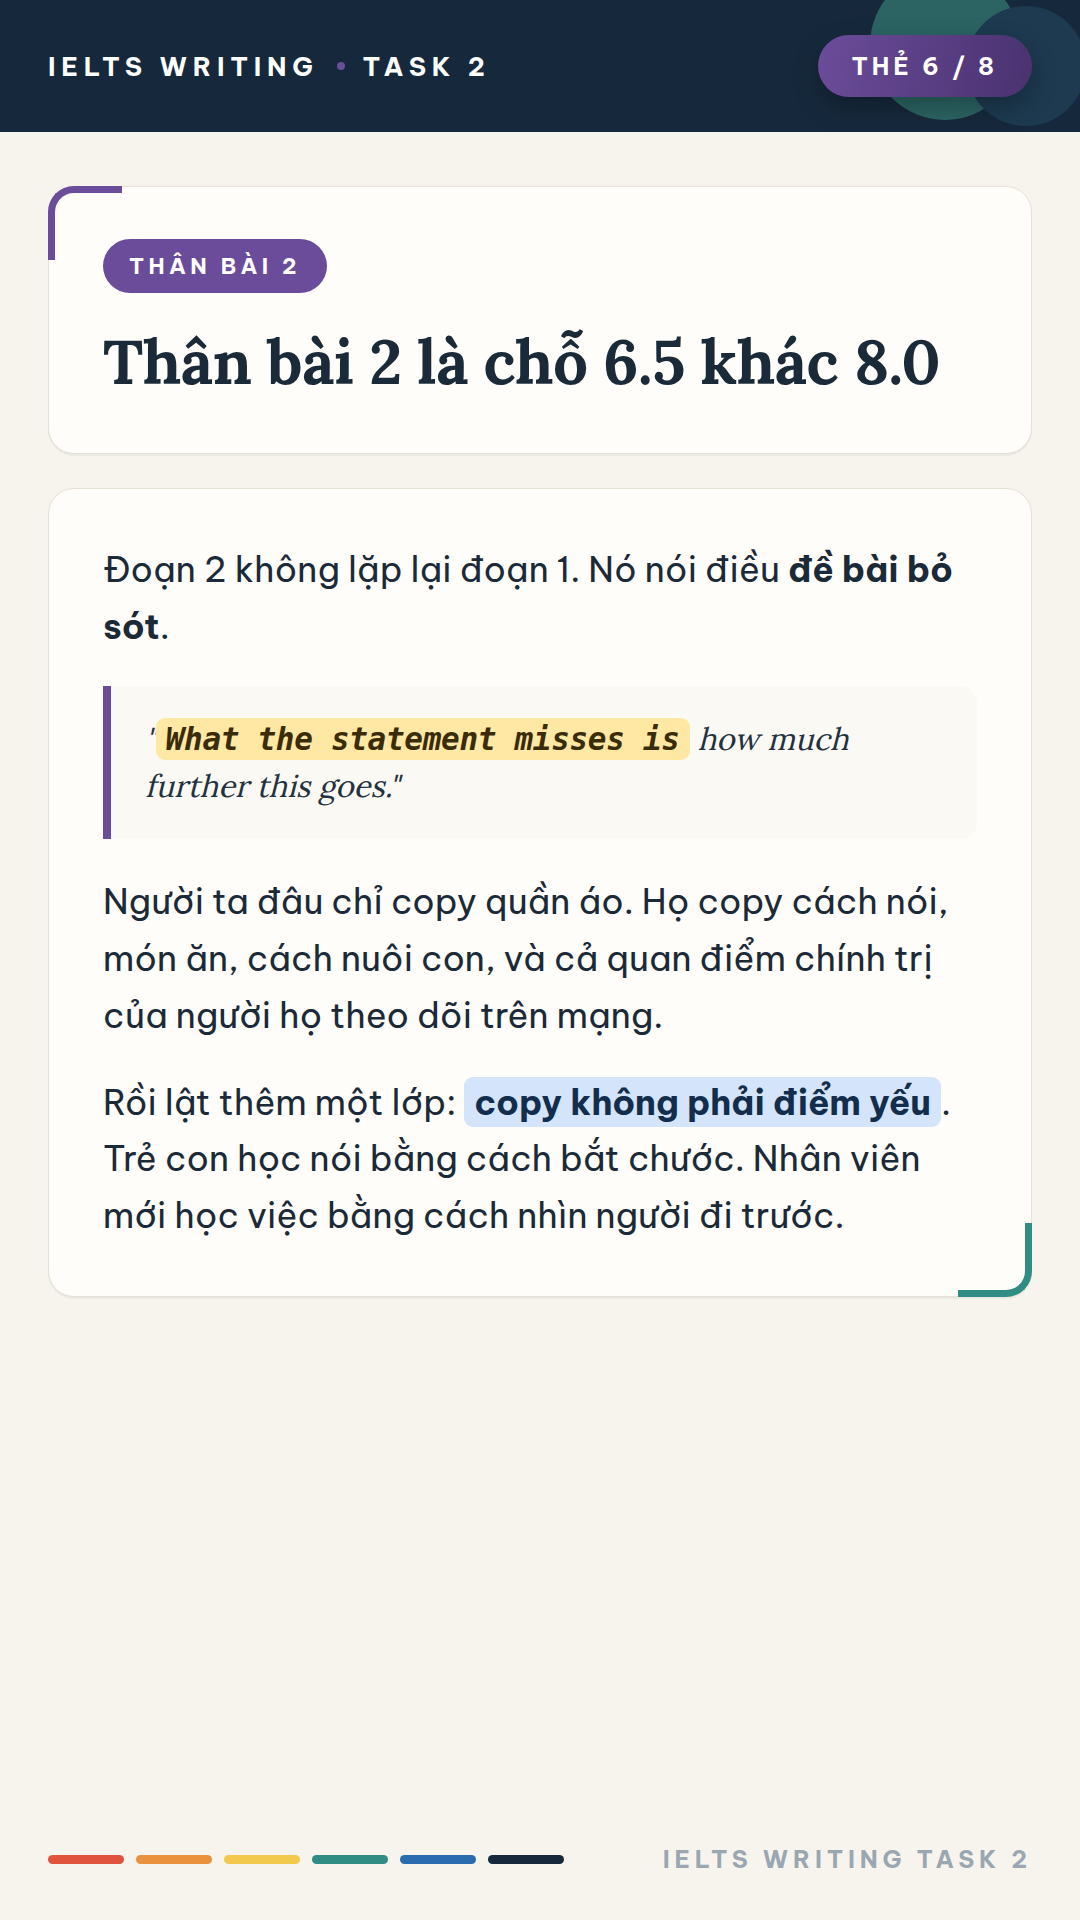
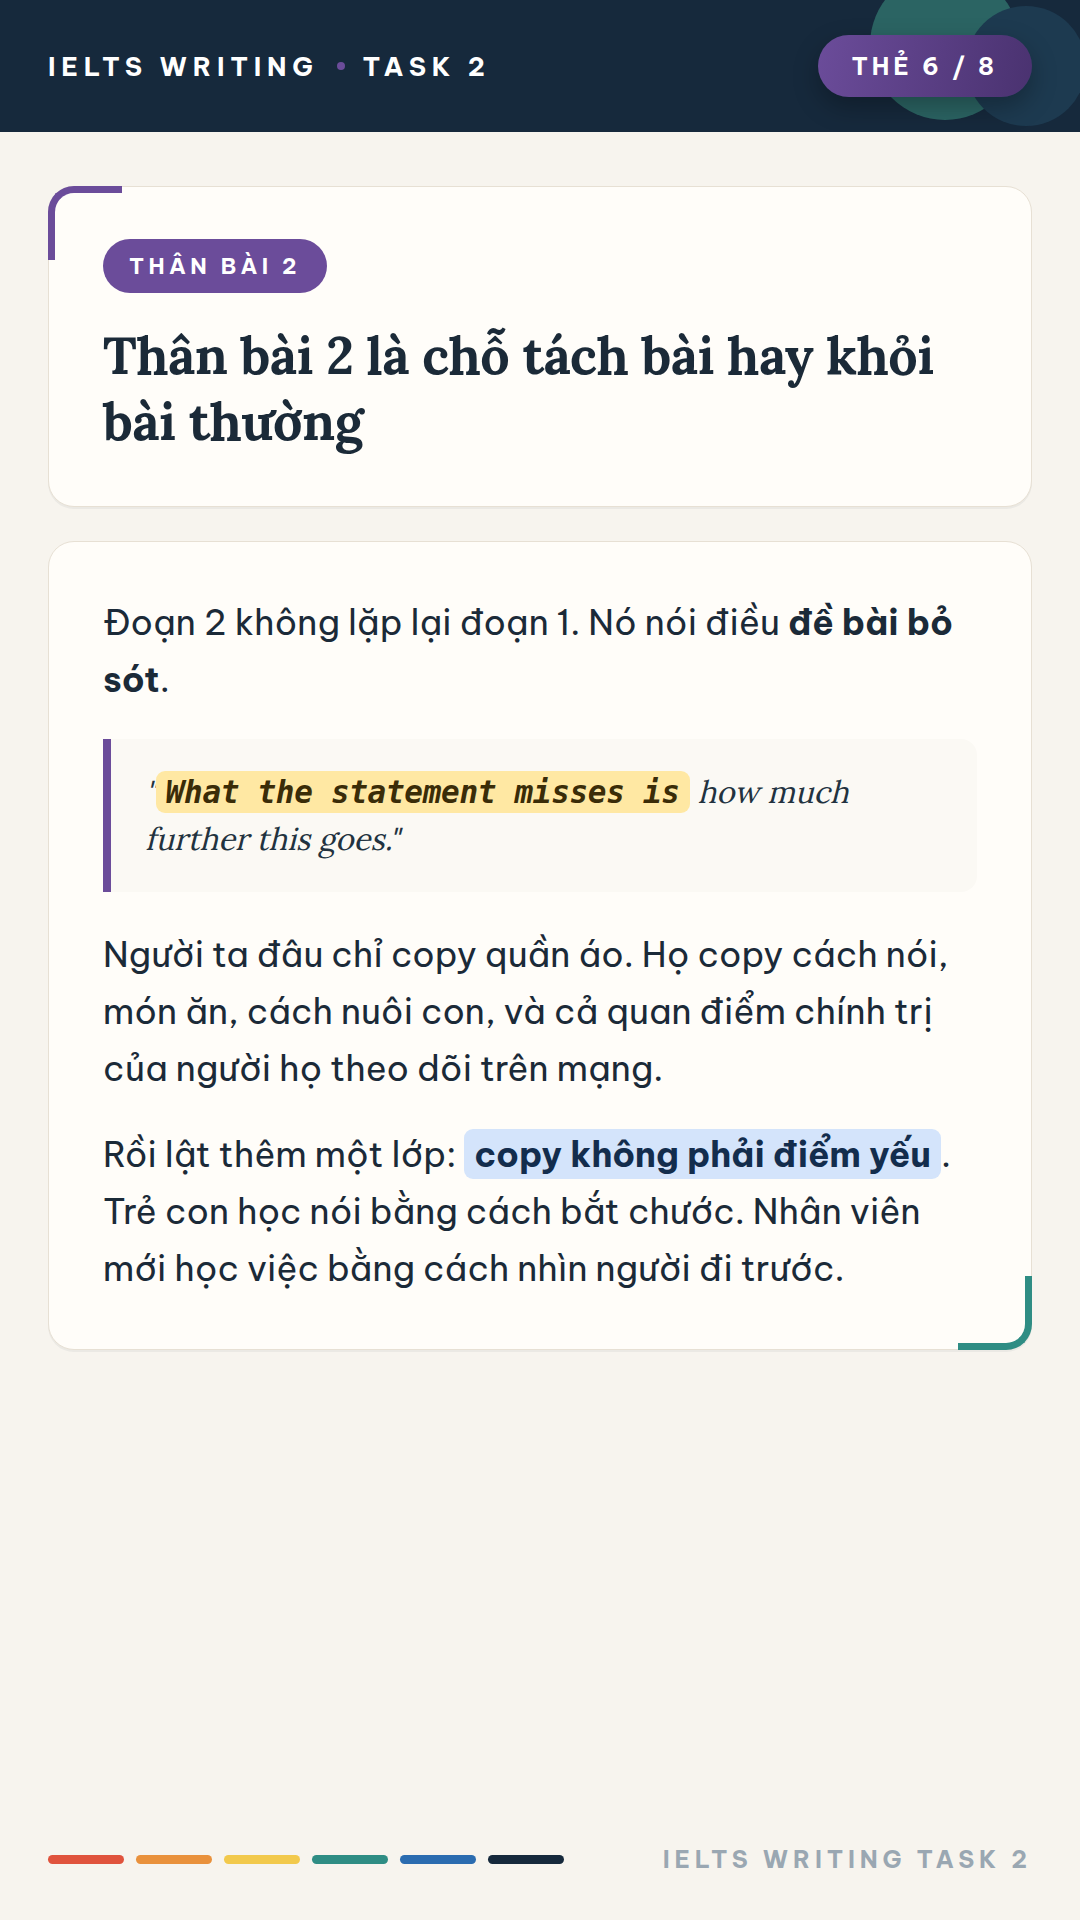
Bỏ mọi nhắc tới điểm số trong thẻ TikTok
Thay "band 8" và các mốc 6.5 / 8.0 bằng cách nói về chất lượng bài viết.
Thẻ phân tích đổi ô điểm thành nhãn tiêu chí TR, CC, LR, GRA và sửa lỗi
tên tiêu chí dính liền phần mô tả.

Claude-Session: https://claude.ai/code/session_019WkSSXiXh5hw7J6iFgTzZU

Changed region(s): [[0.0917, 0.2812, 0.8861, 0.6875], [0.0917, 0.1562, 0.8861, 0.25], [0.8861, 0.625, 0.9778, 0.7188]]

diff --git a/tiktok/task2-full.html b/tiktok/task2-full.html
@@ -15,8 +15,8 @@ const CARDS = [
 /* 1. HOOK */
 {kind:'hook', ac:'#e0533d', ac2:'#b9372a',
  kicker:'IELTS Writing Task 2',
- big:'Một bài <u>band 8</u> không có lấy một từ khó.',
- sub:'Nguyên bài, từ vựng và cách chấm đều nằm trong 7 thẻ này. Lưu lại trước khi lướt tiếp.'},
+ big:'Một bài viết tốt <u>không có lấy một từ khó</u>.',
+ sub:'Nguyên bài, từ vựng và chỗ bài này ăn điểm đều nằm trong 7 thẻ. Lưu lại trước khi lướt tiếp.'},
 
 /* 2. ĐỀ + HƯỚNG TIẾP CẬN */
 {ac:'#e9913c', ac2:'#c26a1f', badge:'Thẻ 1 / 6', chip:'Đề bài',
@@ -32,8 +32,8 @@ const CARDS = [
 
 /* 3. CẢ BÀI WRITING */
 {ac:'#2f8d84', ac2:'#1b5f58', tight:1, badge:'Thẻ 2 / 6', chip:'Bài mẫu',
- title:'Nguyên bài band 8',
- html:`<div class="meta"><span>Band 8.0</span><span>290 từ</span><span class="hot">Agree or disagree</span></div>
+ title:'Nguyên bài mẫu',
+ html:`<div class="meta"><span>Bài mẫu</span><span>290 từ</span><span class="hot">Agree or disagree</span></div>
  <div class="essay">
  <p><span class="pnum">1</span><mark>It is often said that</mark> the way fashions and popular products spread shows how strongly people imitate one another. I agree with this, <mark class="g">although</mark> clothes and gadgets seem to me only the most visible example of something much broader.</p>
  <p><span class="pnum">2</span>The claim is clearly right <mark>as far as it goes</mark>. A particular style of trainer or coat appears on every street within a few months and has disappeared again a year later, and the same happens with phones, coffee shops and kitchen appliances. <mark class="b">The reason is not hard to see.</mark> Wearing what your friends wear is <mark>a way of showing that you belong</mark> with them, while dressing very differently <mark>attracts attention</mark> that most people would rather avoid. <mark class="b">The strongest evidence, though, is commercial.</mark> An entire advertising industry is <mark>built on the assumption that</mark> showing one person enjoying a product will persuade others to buy it, and that industry is extremely profitable, which suggests the assumption is correct.</p>
@@ -78,14 +78,14 @@ const CARDS = [
 
 /* 6. ĐÁNH GIÁ VÀ PHÂN TÍCH */
 {ac:'#4a8c3f', ac2:'#2f6128', badge:'Thẻ 5 / 6', chip:'Chấm bài',
- title:'Bài này được điểm ở đâu',
+ title:'Bài này mạnh ở chỗ nào',
  html:`<div class="crit">
-  <div><span class="band">8.0</span><span><span class="t">Task Response</span><span class="d">Lập trường rõ ngay câu thứ hai và không đổi cho tới kết bài. Có nhượng bộ (đề đúng) rồi mở rộng (đề mới nói một phần), nên bài trả lời đúng chữ "to what extent".</span></span></div>
-  <div><span class="band">8.0</span><span><span class="t">Coherence &amp; Cohesion</span><span class="d">Mỗi đoạn một nhiệm vụ. Ý nối nhau bằng logic, không cần firstly, secondly, last but not least.</span></span></div>
-  <div><span class="band">8.0</span><span><span class="t">Lexical Resource</span><span class="d">Từ quen nhưng đặt chính xác: trainers, coffee shops, neighbours. Collocation tự nhiên như attract attention, shape a life.</span></span></div>
-  <div><span class="band">8.0</span><span><span class="t">Grammar</span><span class="d">Câu dài ngắn xen kẽ. Mệnh đề quan hệ và "while" dùng đúng chỗ, không gồng.</span></span></div>
+  <div><span class="band">TR</span><span><span class="t">Task Response</span><span class="d">Lập trường rõ ngay câu thứ hai và không đổi cho tới kết bài. Có nhượng bộ (đề đúng) rồi mở rộng (đề mới nói một phần), nên bài trả lời đúng chữ "to what extent".</span></span></div>
+  <div><span class="band">CC</span><span><span class="t">Coherence &amp; Cohesion</span><span class="d">Mỗi đoạn một nhiệm vụ. Ý nối nhau bằng logic, không cần firstly, secondly, last but not least.</span></span></div>
+  <div><span class="band">LR</span><span><span class="t">Lexical Resource</span><span class="d">Từ quen nhưng đặt chính xác: trainers, coffee shops, neighbours. Collocation tự nhiên như attract attention, shape a life.</span></span></div>
+  <div><span class="band">GRA</span><span><span class="t">Grammar</span><span class="d">Câu dài ngắn xen kẽ. Mệnh đề quan hệ và "while" dùng đúng chỗ, không gồng.</span></span></div>
  </div>
- <div class="note"><div class="note__t">Điều làm nên band 8 ở đây</div><p>Không phải từ hiếm, mà là <b>một lập trường rõ được giữ nguyên</b> và <b>mỗi đoạn làm đúng một việc</b>.</p></div>`},
+ <div class="note"><div class="note__t">Điều làm nên bài này</div><p>Không phải từ hiếm, mà là <b>một lập trường rõ được giữ nguyên</b> và <b>mỗi đoạn làm đúng một việc</b>.</p></div>`},
 
 /* 7. OUTRO */
 {kind:'outro', ac:'#2f8d84', ac2:'#1b5f58',

diff --git a/tiktok/task2-cards.html b/tiktok/task2-cards.html
@@ -12,7 +12,7 @@
 const BARS = ['#e0533d','#e9913c','#f2c94c','#2f8d84','#2b6cb0','#16293c'];
 const CARDS = [
 /* 1 */ {hook:1, ac:'#e0533d', ac2:'#b9372a', kicker:'IELTS Writing Task 2',
-  big:'Bài band 8 này không có <u>một từ nào</u> bạn phải tra từ điển.',
+  big:'Bài mẫu này không có <u>một từ nào</u> bạn phải tra từ điển.',
   sub:'Vấn đề của bạn chưa bao giờ là từ vựng.'},
 
 /* 2 */ {ac:'#e0533d', ac2:'#b9372a', badge:'Thẻ 1 / 8', chip:'Đề bài',
@@ -65,7 +65,7 @@ const CARDS = [
   <div class="note"><div class="note__t">Nhớ giùm thầy</div><p>Ba câu hỏi đó chính là ba câu tiếp theo của đoạn.</p></div>`},
 
 /* 7 */ {ac:'#6b4c9a', ac2:'#4a3270', badge:'Thẻ 6 / 8', chip:'Thân bài 2',
-  title:'Thân bài 2 là chỗ 6.5 khác 8.0',
+  title:'Thân bài 2 là chỗ tách bài hay khỏi bài thường',
   html:`<p class="body">Đoạn 2 không lặp lại đoạn 1. Nó nói điều <b>đề bài bỏ sót</b>.</p>
   <blockquote class="sm">"<mark class="en">What the statement misses is</mark> how much further this goes."</blockquote>
   <p class="body" style="margin-top:34px">Người ta đâu chỉ copy quần áo. Họ copy cách nói, món ăn, cách nuôi con, và cả quan điểm chính trị của người họ theo dõi trên mạng.</p>
@@ -73,7 +73,7 @@ const CARDS = [
 
 /* 8 */ {ac:'#4a8c3f', ac2:'#2f6128', badge:'Thẻ 7 / 8', chip:'Từ vựng',
   title:'Từ vựng: đừng cố',
-  html:`<p class="body">Mở lại bài band 8 và đếm thử:</p>
+  html:`<p class="body">Mở lại bài mẫu và đếm thử:</p>
   <p class="body" style="margin-top:22px"><mark class="en">shoes</mark> <mark class="en">coffee shops</mark> <mark class="en">trainers</mark> <mark class="en">neighbours</mark> <mark class="en">child</mark> <mark class="en">job</mark></p>
   <p class="body" style="margin-top:34px">Không một từ nào phải tra từ điển.</p>
   <div class="note"><div class="note__t">Lexical Resource thật sự chấm gì</div>

diff --git a/tiktok/cards.css b/tiktok/cards.css
@@ -203,3 +203,5 @@ ul.steps li span b,ul.dots li span b,.cta li span b{
   all:unset;font-weight:700;color:var(--ink);
 }
 .cta li span b{color:#fff}
+.crit .band{font-size:26px;letter-spacing:.06em}
+.crit .t,.crit .d{display:block}
